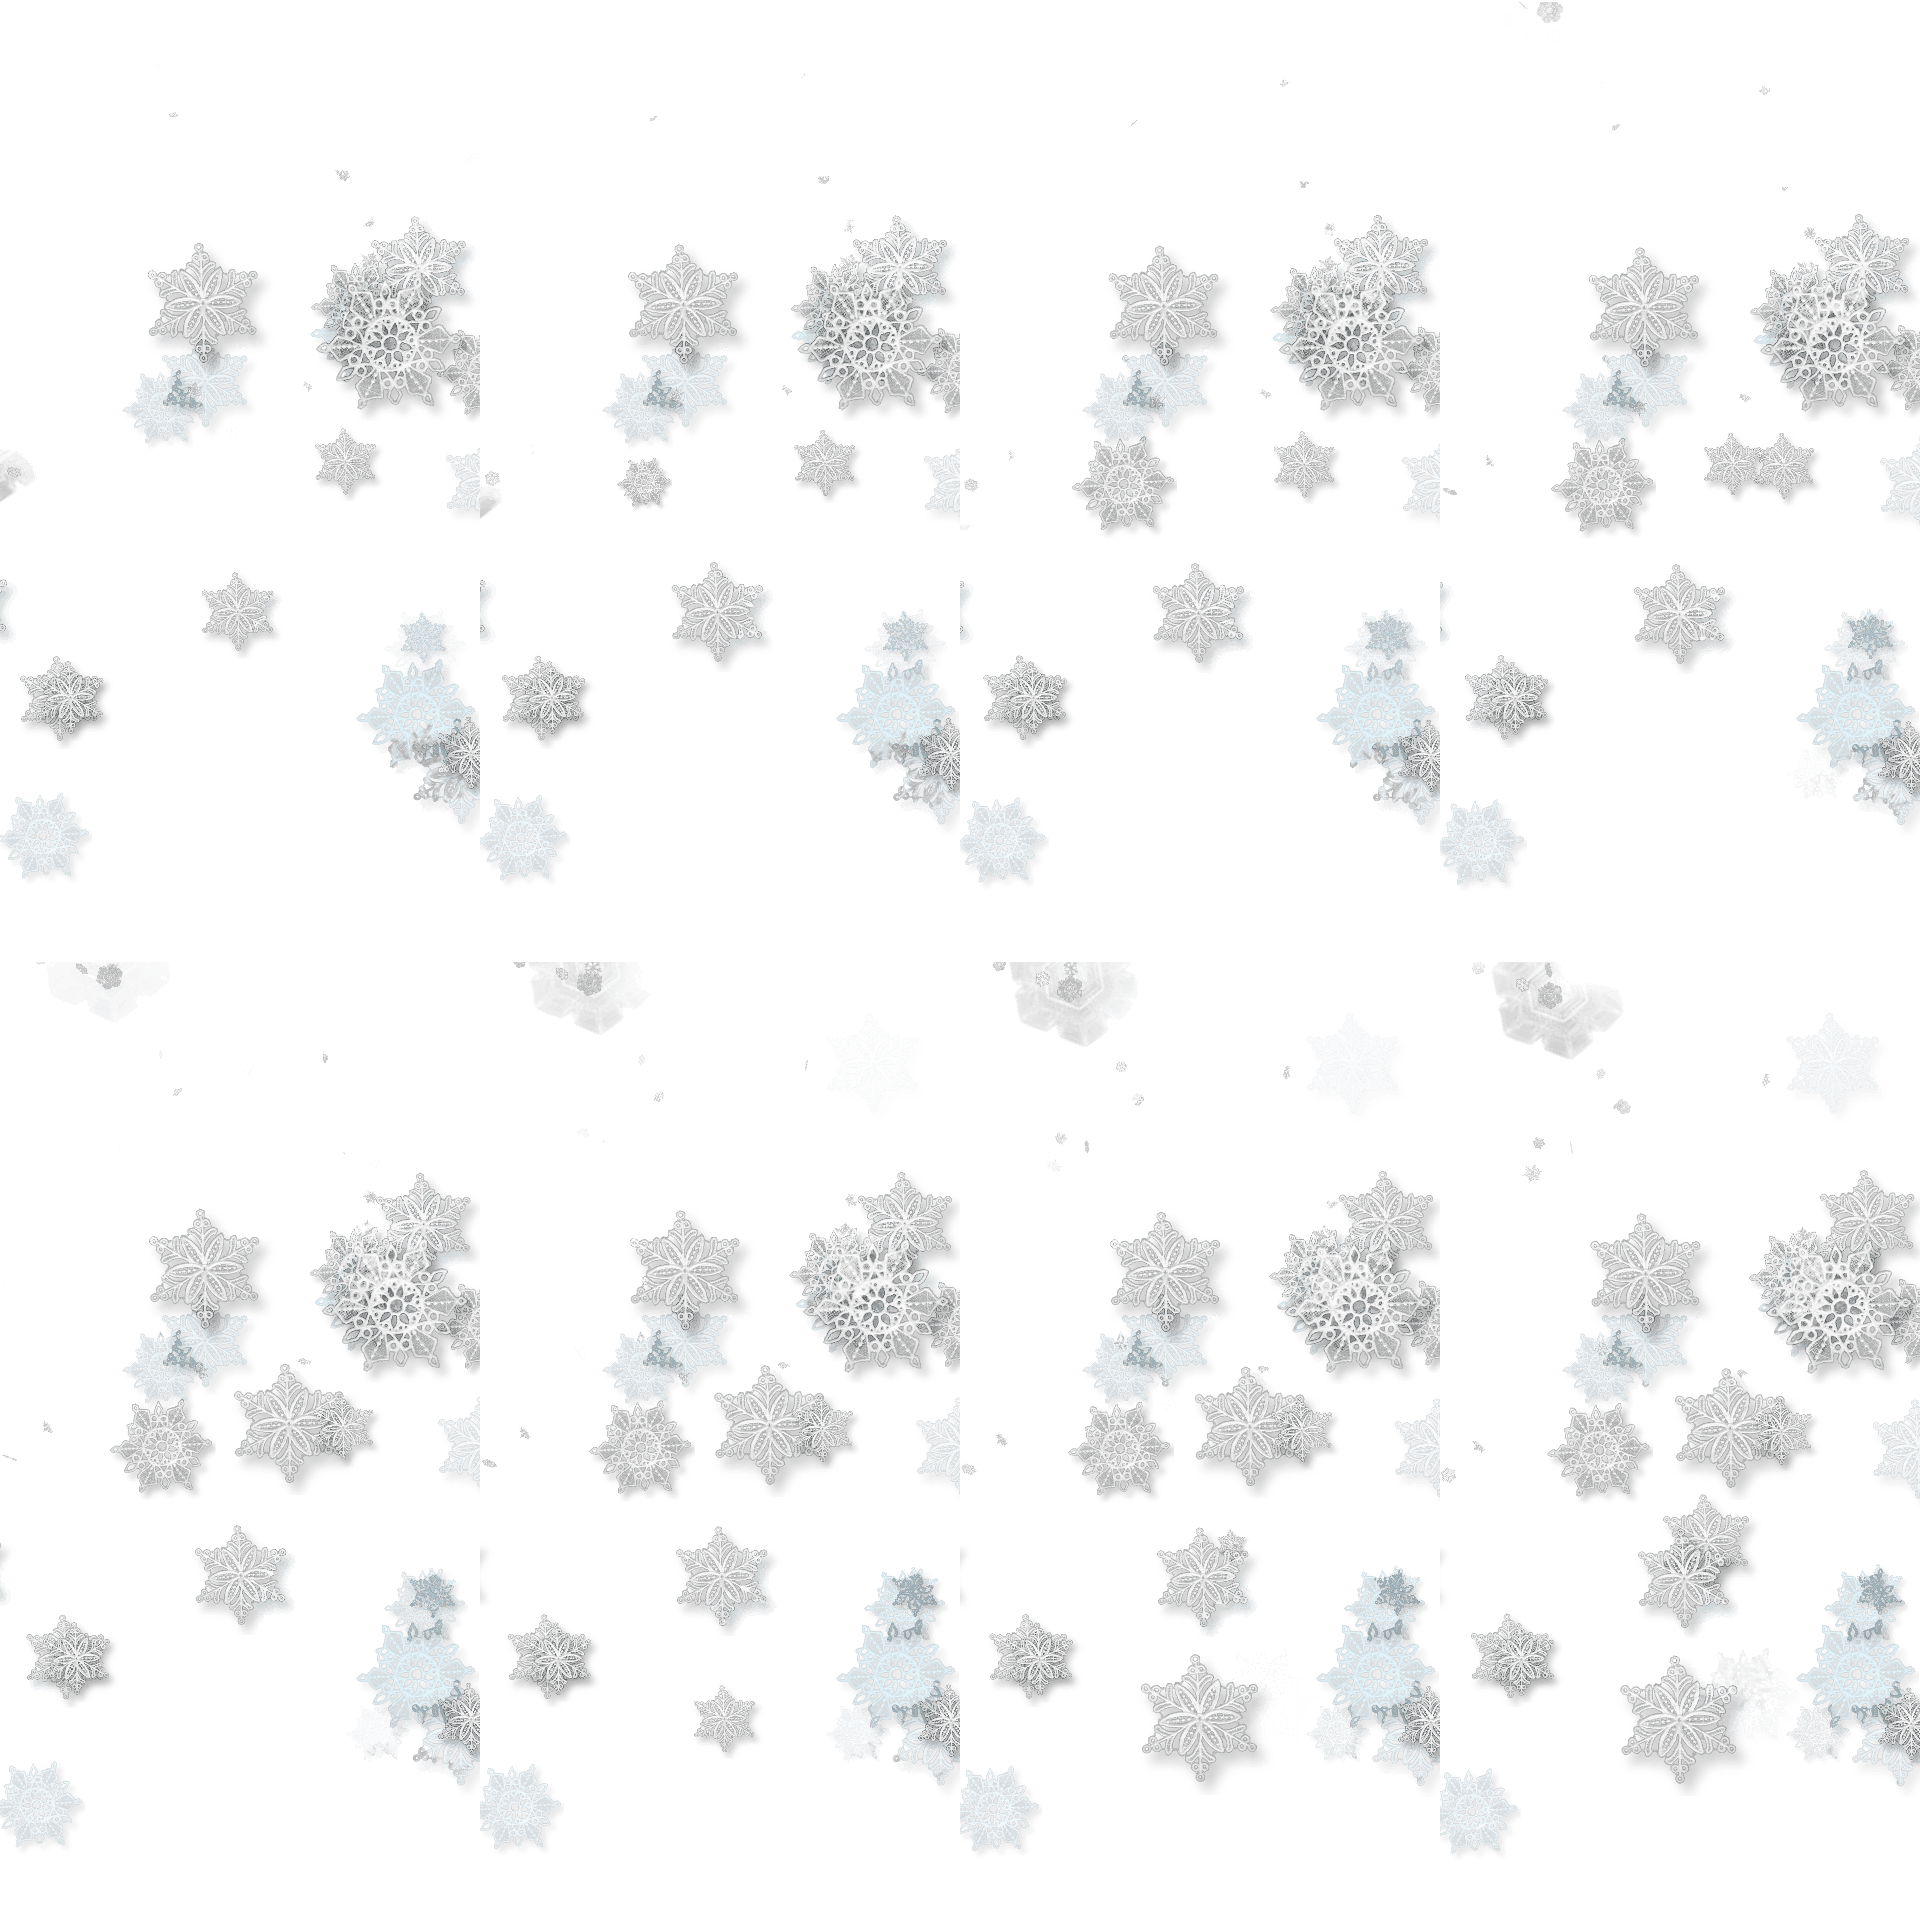
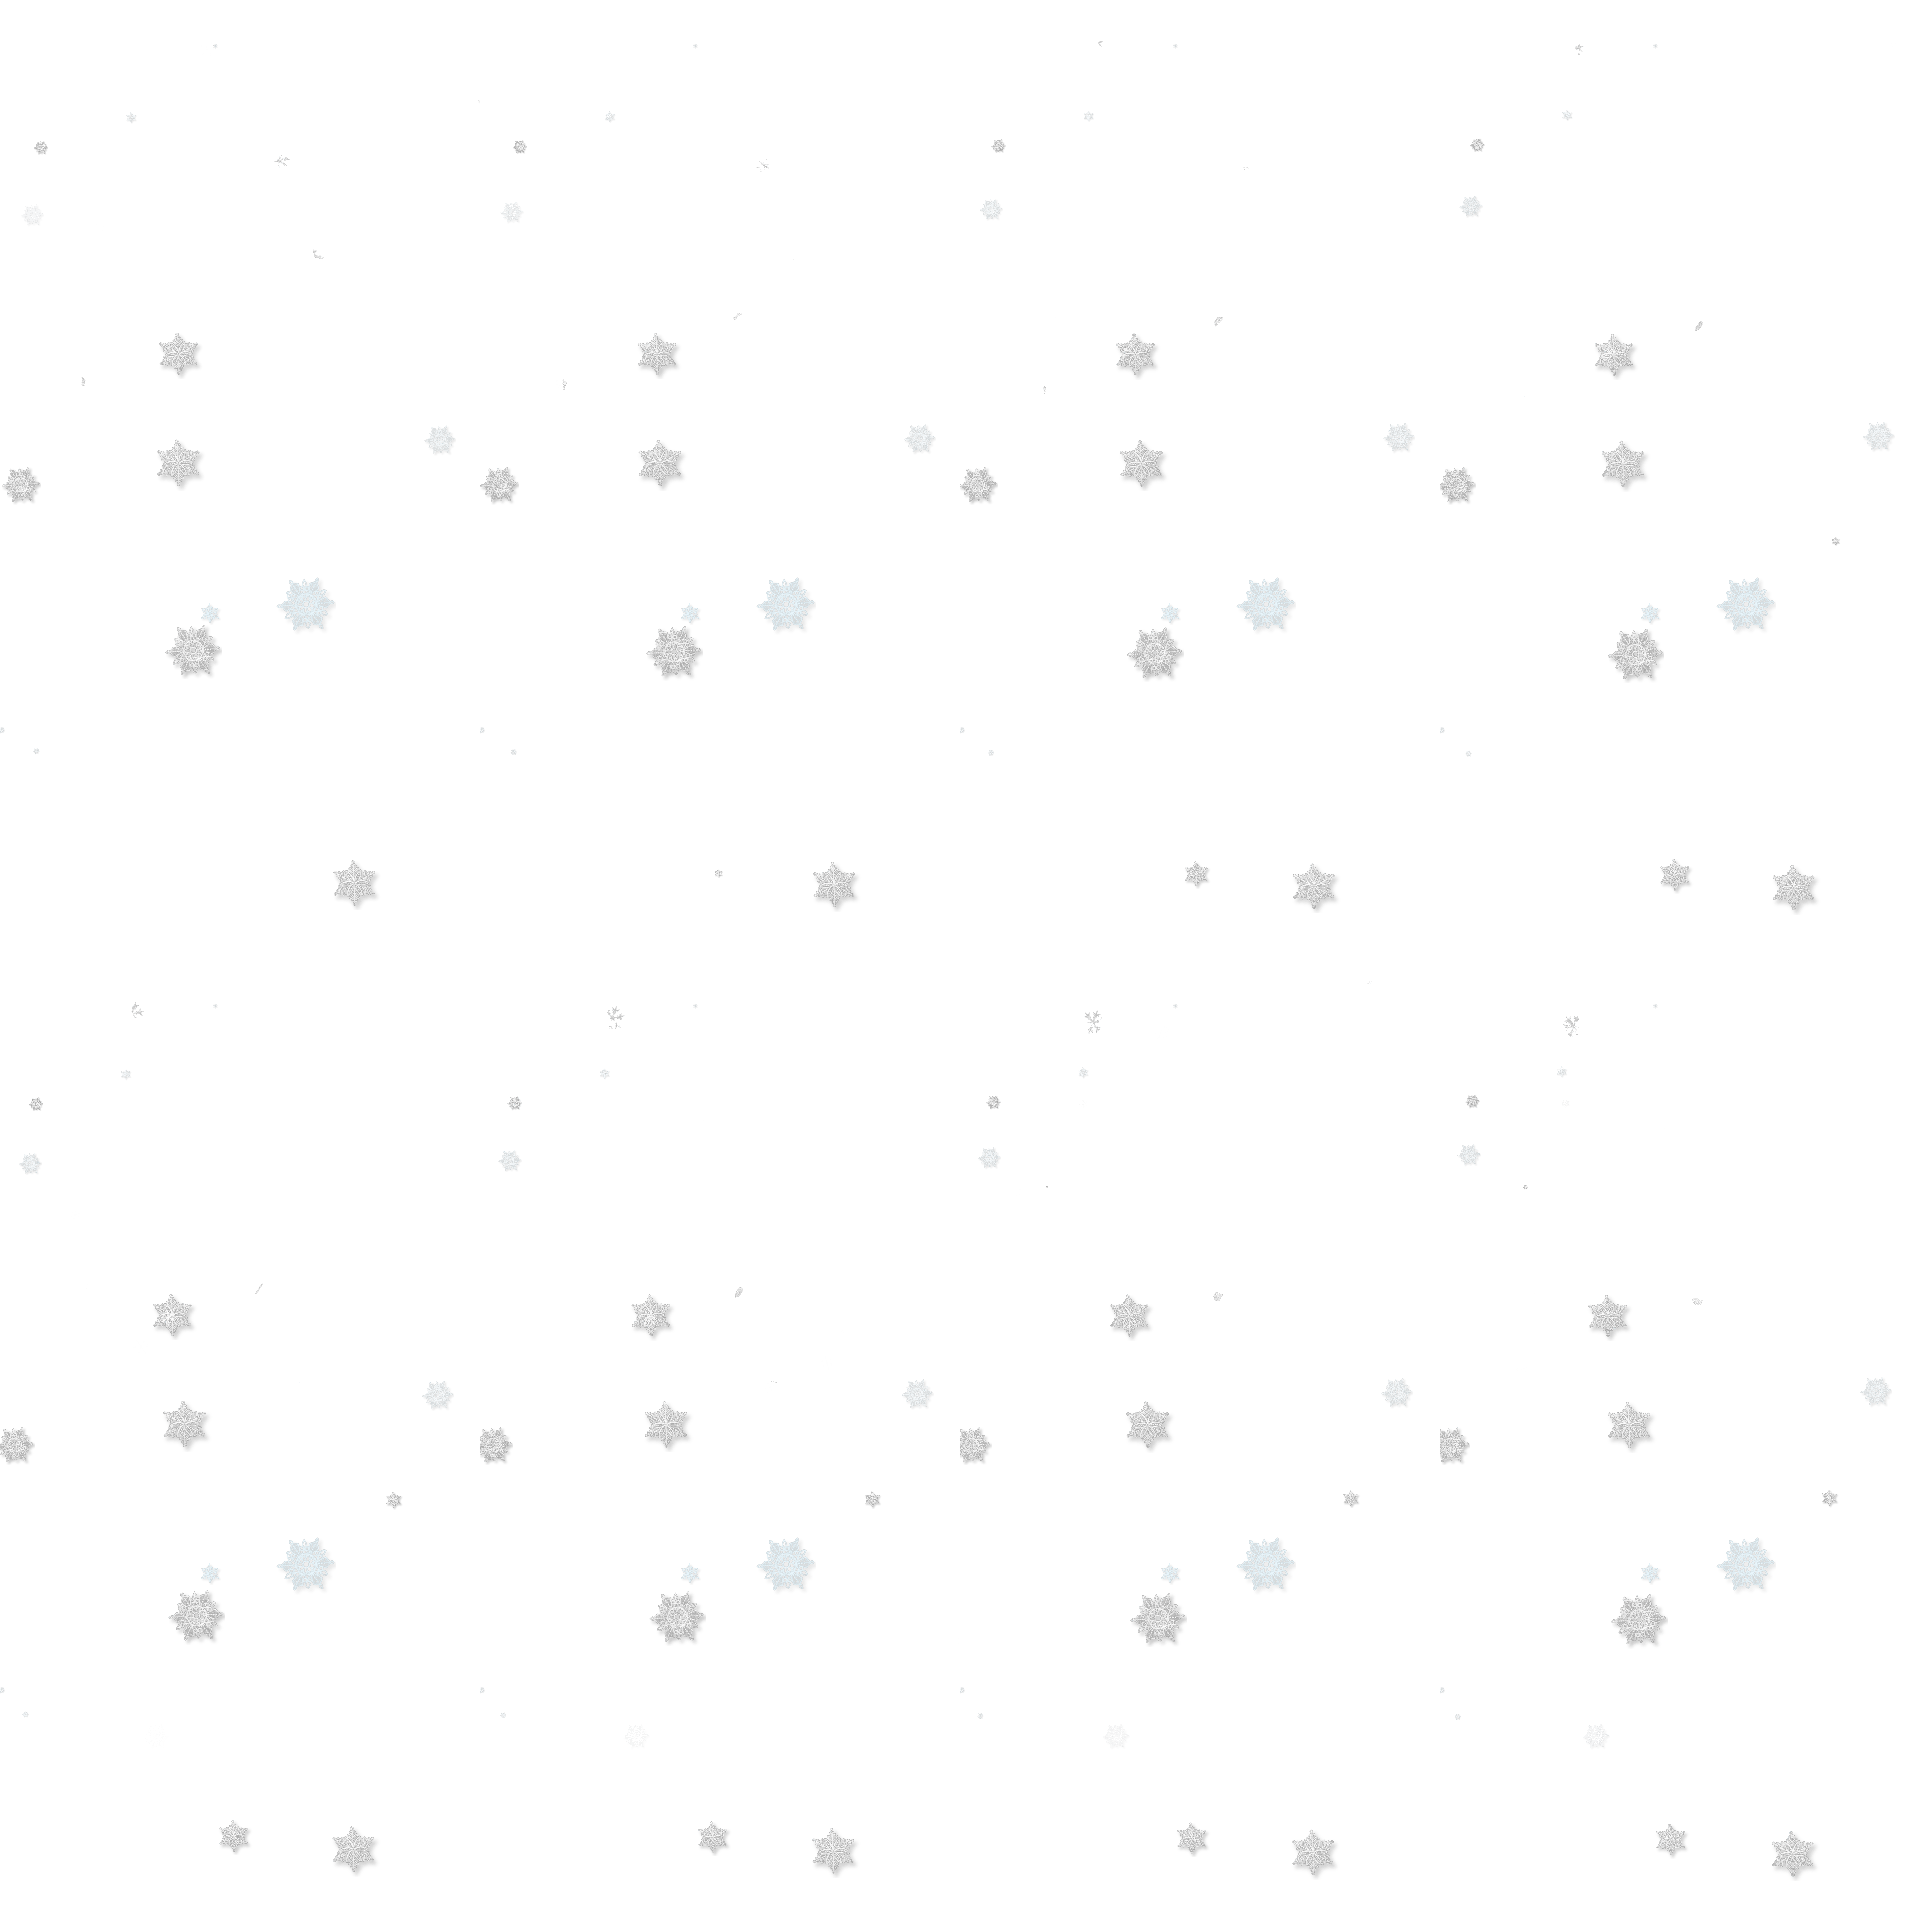
更新：雪花动效

diff --git a/app/components/effects/XueHuaAnimation.js b/app/components/effects/XueHuaAnimation.js
@@ -16,7 +16,7 @@ const IMAGES = [
     { id: 4, source: require('../../../assets/animations/xuehua/xuehua4-5.png'), frameWidth: 480, frameHeight: 960, frameNums: 8, columns: 4, rows: 2 },
     { id: 5, source: require('../../../assets/animations/xuehua/xuehua5-6.png'), frameWidth: 480, frameHeight: 960, frameNums: 8, columns: 4, rows: 2 },
     { id: 6, source: require('../../../assets/animations/xuehua/xuehua6-7.png'), frameWidth: 480, frameHeight: 960, frameNums: 8, columns: 4, rows: 2 },
-    { id: 7, source: require('../../../assets/animations/xuehua/xuehua7-8.png'), frameWidth: 480, frameHeight: 960, frameNums: 5, columns: 3, rows: 2 },
+    { id: 7, source: require('../../../assets/animations/xuehua/xuehua7-8.png'), frameWidth: 480, frameHeight: 960, frameNums: 5, columns: 4, rows: 1 },
 ]
 
 class SheetItem extends React.Component {
